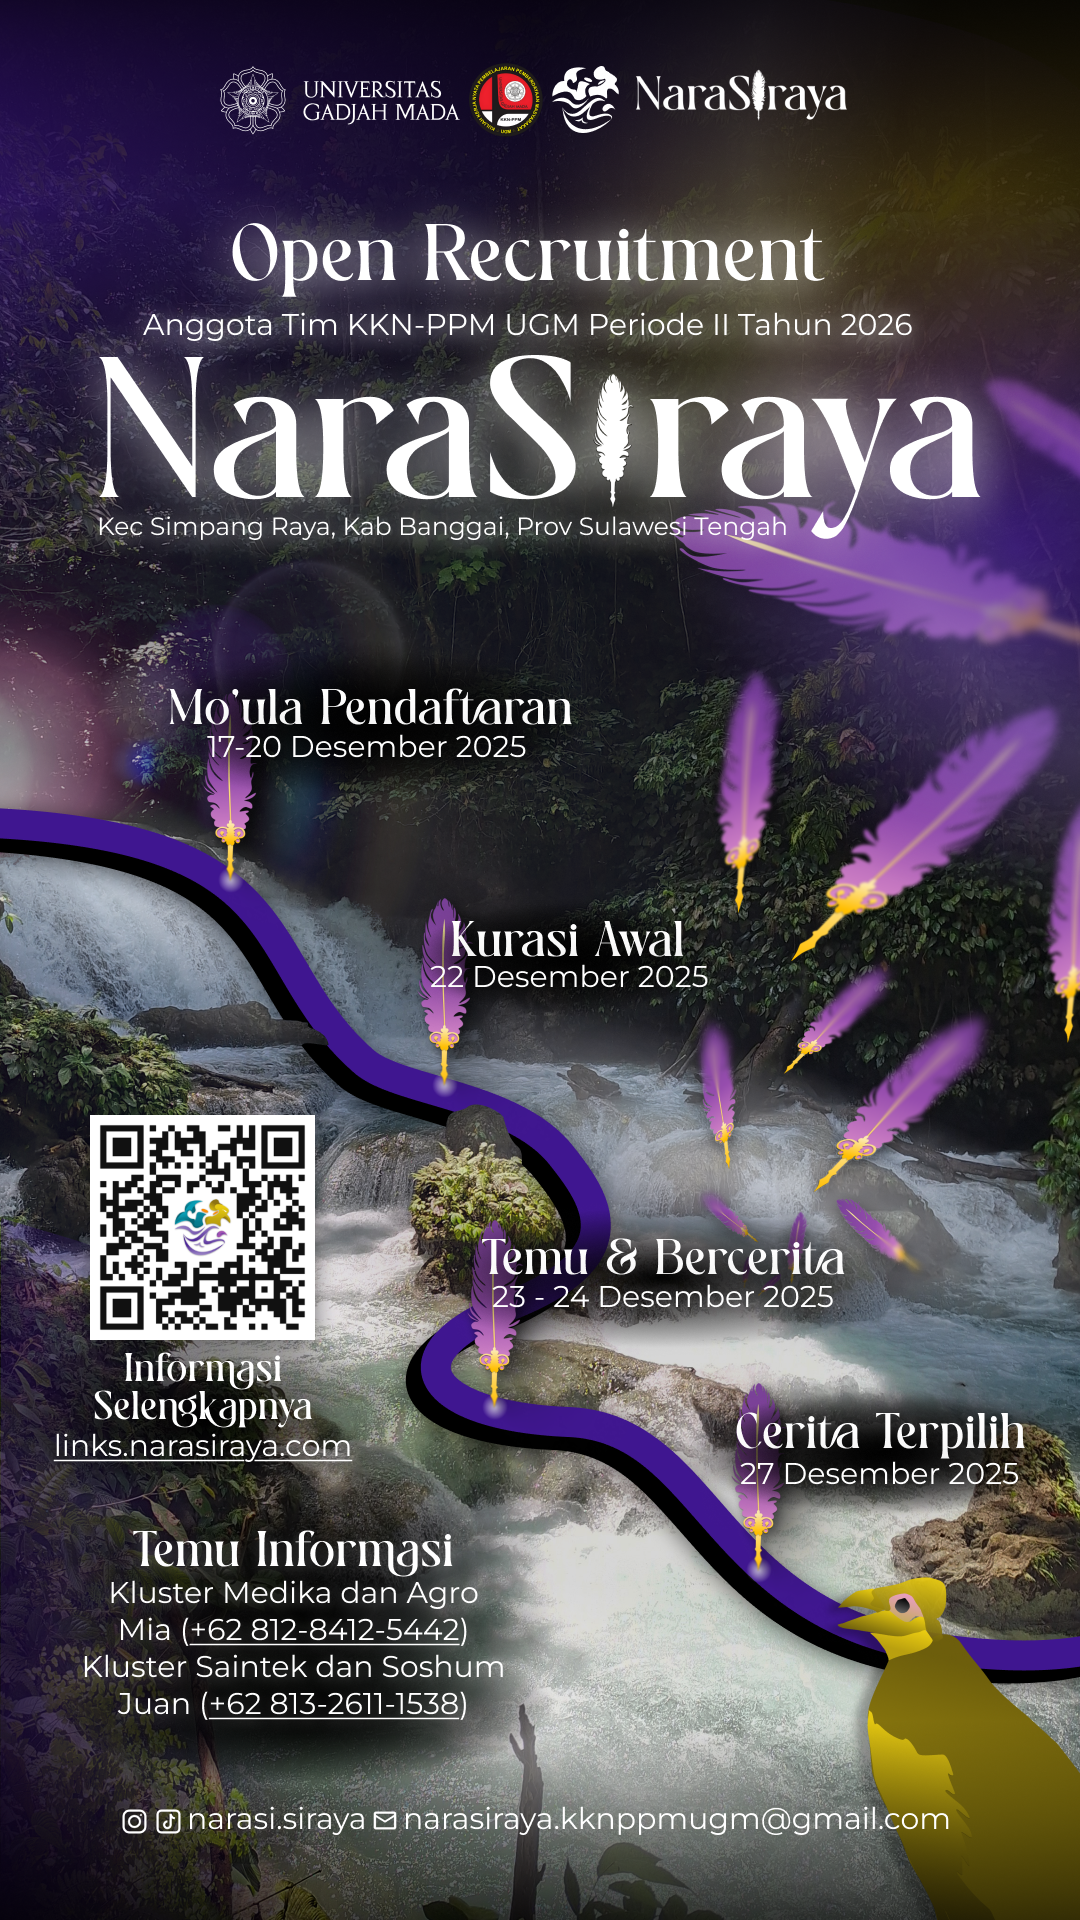
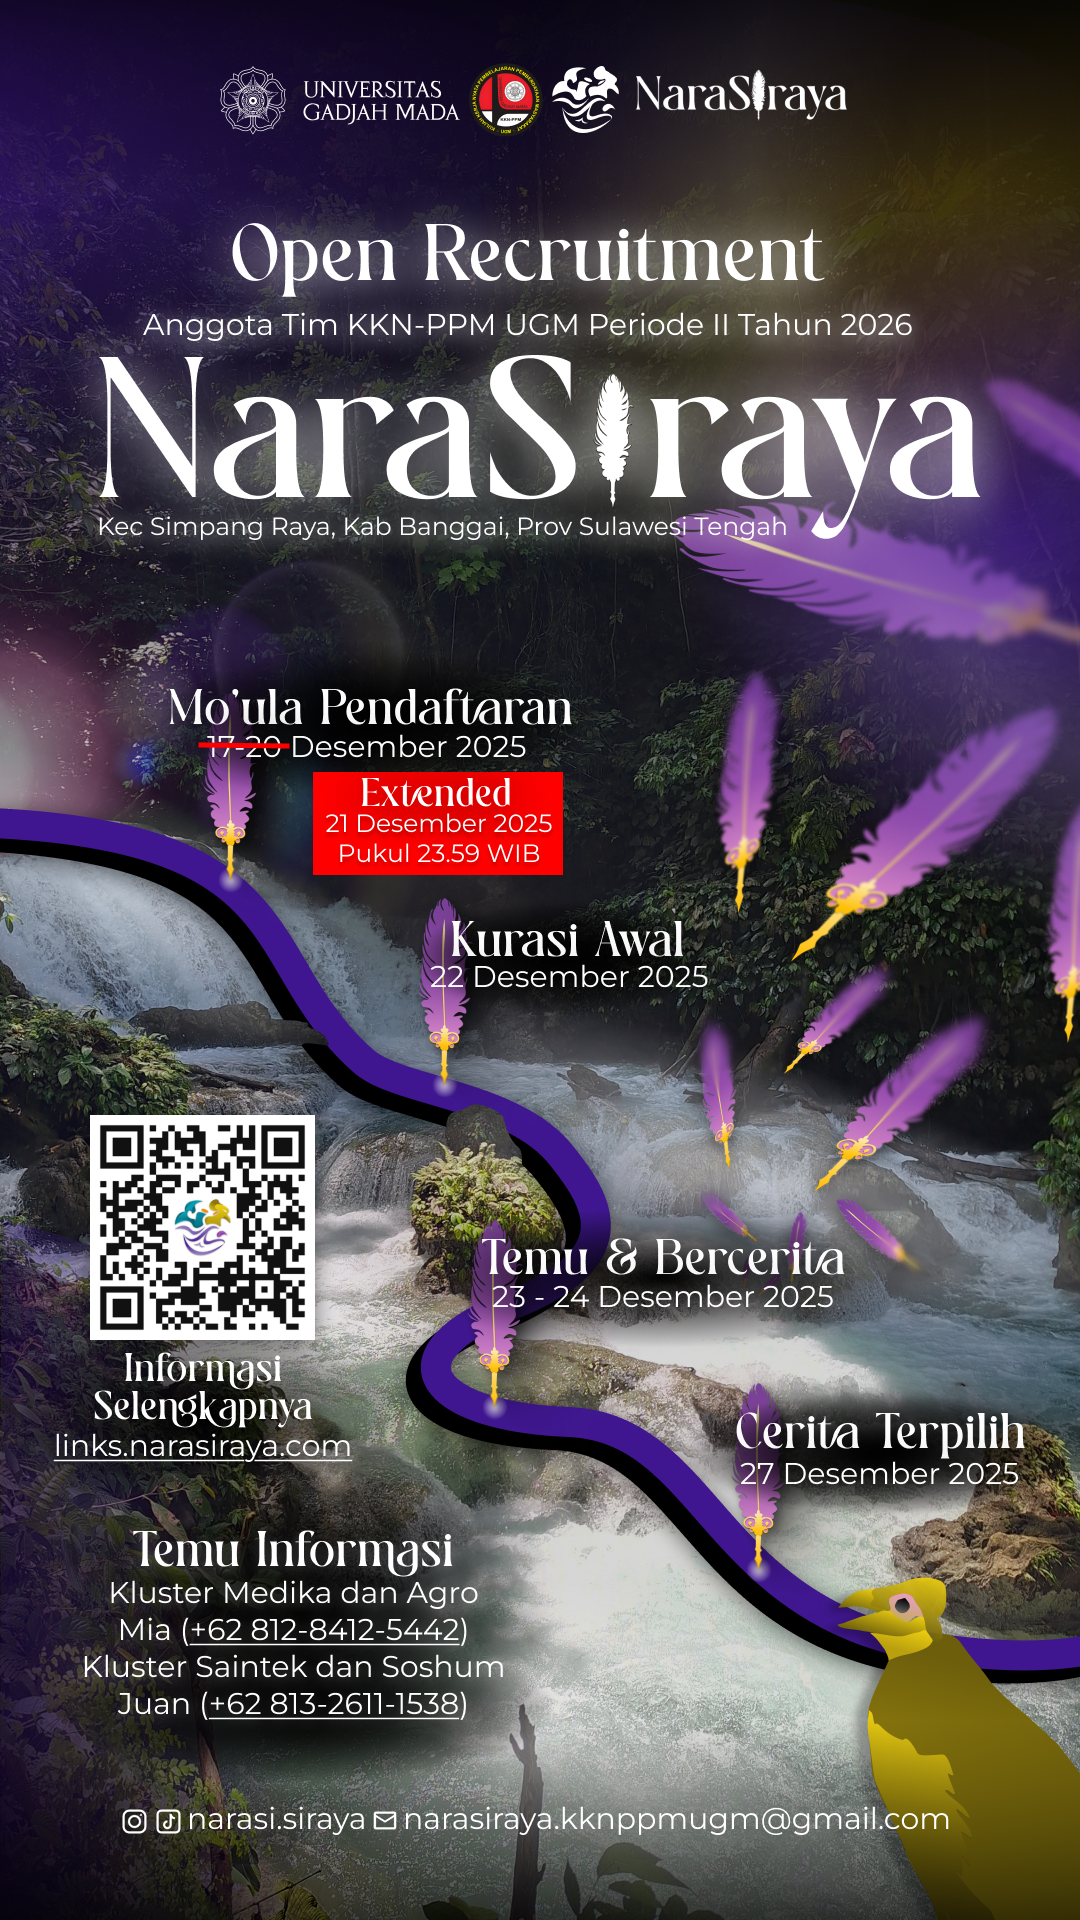
chore: extend oprec

Changed region(s): [[0.275, 0.375, 0.5194, 0.4688]]

diff --git a/apps/links/components/announcement.tsx b/apps/links/components/announcement.tsx
@@ -5,7 +5,7 @@ import { Button } from "./ui/button";
 export function Announcement() {
   return (
     <div className="flex items-center justify-center gap-2 max-[400px]:flex-col max-[400px]:text-center">
-      <p className="text-pretty text-sm">Open recruitment sudah dibuka!</p>
+      <p className="text-pretty text-sm">Open recruitment diperpanjang!</p>
       <Button
         render={
           <Link
